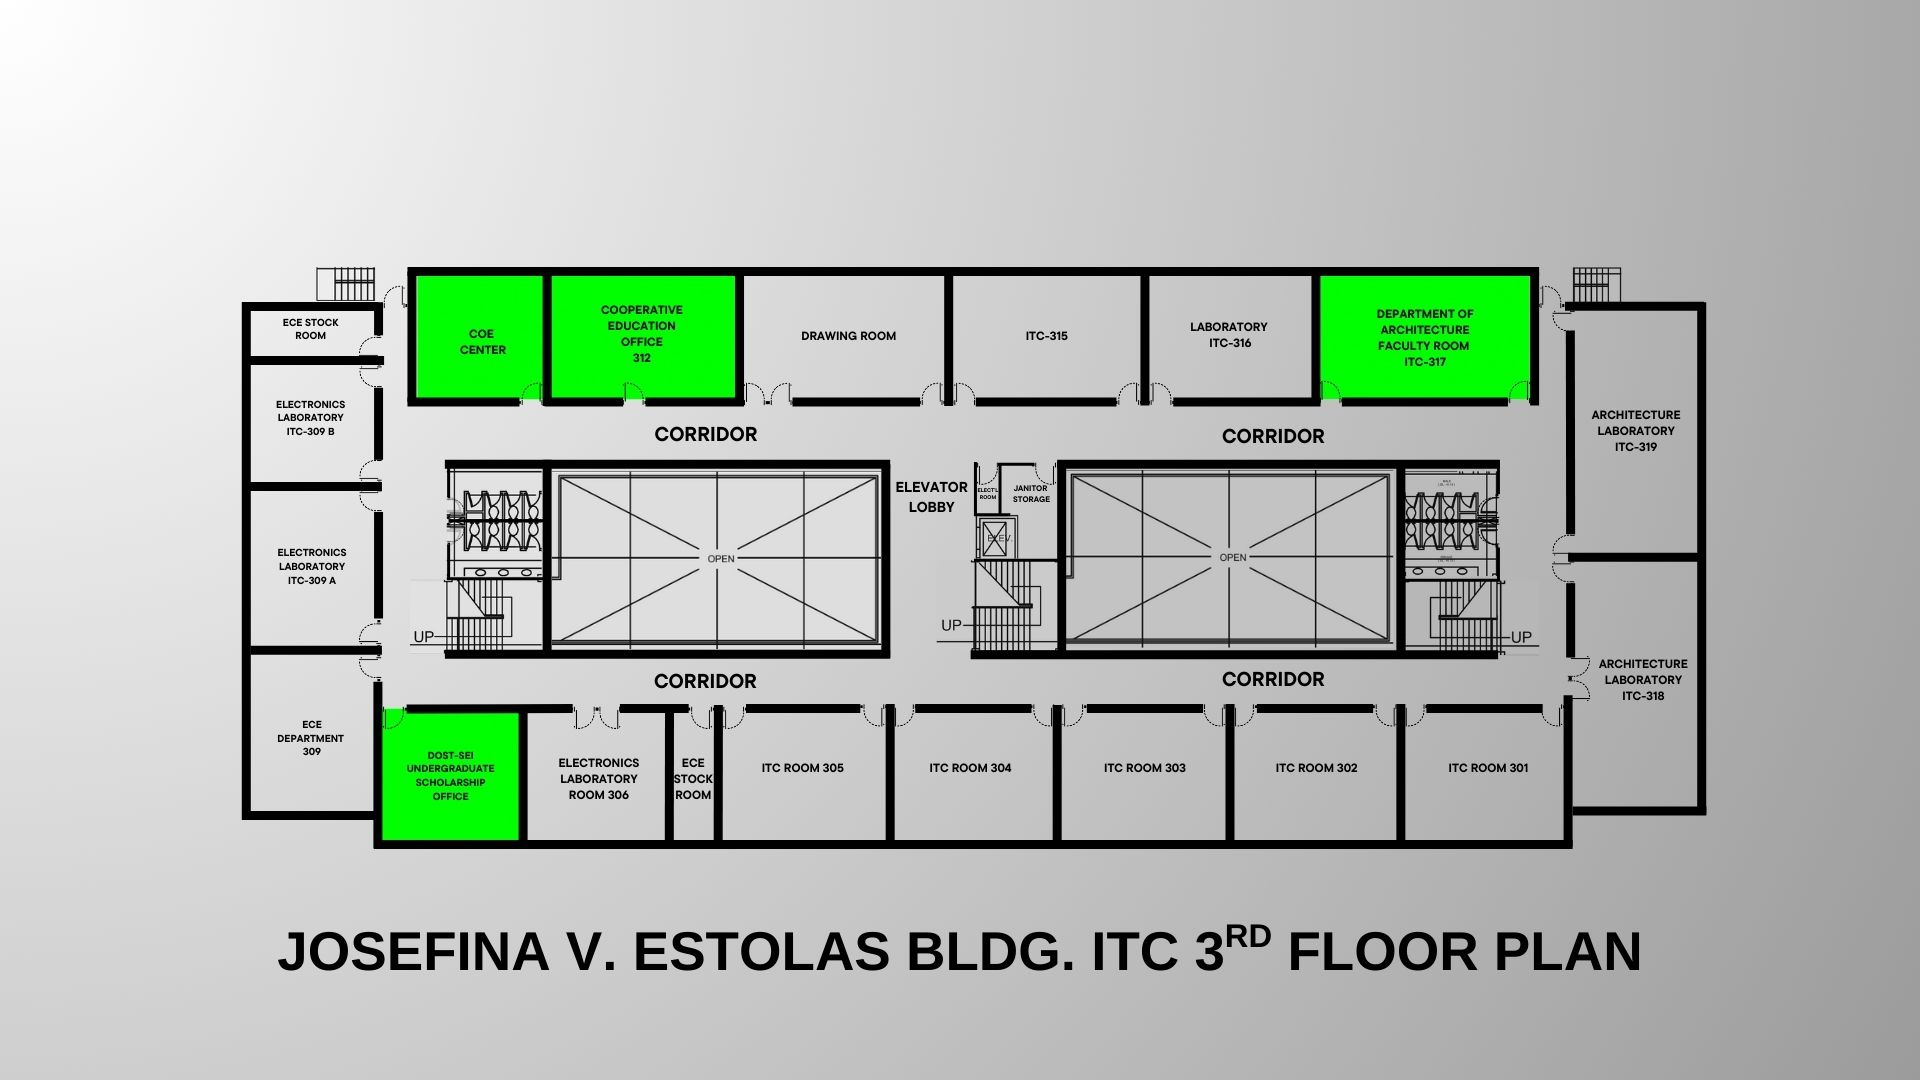
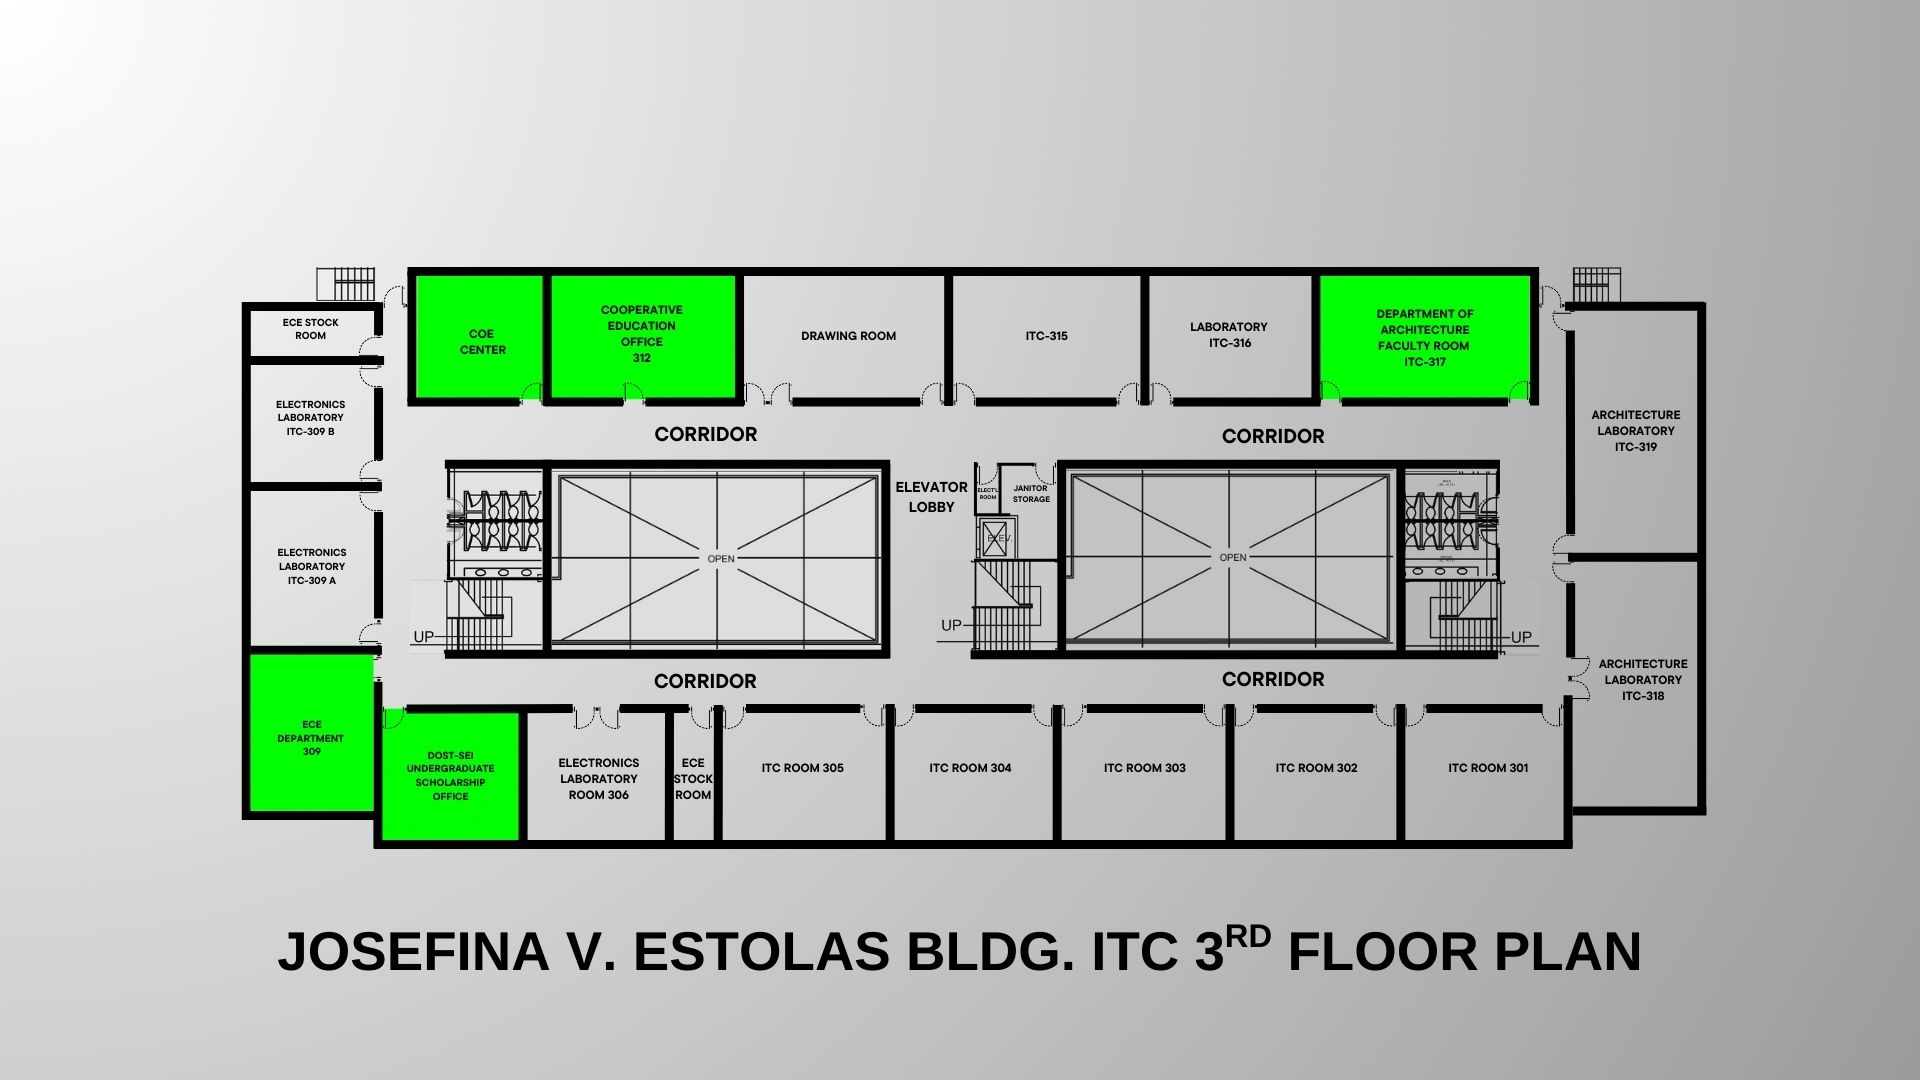
chore: added ece dept in highlights

Changed region(s): [[0.125, 0.5806, 0.2188, 0.7639]]

diff --git a/frontend/src/pages/MapPage.tsx b/frontend/src/pages/MapPage.tsx
@@ -10,6 +10,7 @@ import {
   COOP,
   CPE_DEPT,
   CULTURAL_AFFAIRS_OFFICE,
+  ECE_DEPT,
   ENGR_BLDG,
   HighlightsProps,
   ITB,
@@ -28,6 +29,7 @@ import {
 import BuildingComponent from "@/my_components/BuildingComponent";
 import { getMapImage } from "@/api";
 import RTU_MAP from "/RTU_MAP.jpg";
+import { Divide } from "lucide-react";
 
 const MapPage = () => {
   const [title, setTitle] = useState("Rizal Technological University Map");
@@ -177,12 +179,20 @@ const MapPage = () => {
 
                   {/* Highlights */}
                   {!isFloorSelected && (
-                    <Highlights
-                      className="top-[21%] left-[1%]"
-                      setIsFloorSelected={(e) => setIsFloorSelected(e)}
-                      getFolder={(folder) => setFolder(folder)}
-                      getFloor={(floor) => setFloor(floor)}
-                    />
+                    <>
+                      <Highlights
+                        className="top-[30%] left-[1%]"
+                        setIsFloorSelected={(e) => setIsFloorSelected(e)}
+                        getFolder={(folder) => setFolder(folder)}
+                        getFloor={(floor) => setFloor(floor)}
+                      />
+                      <Highlights1
+                        className="top-[60%] left-[80%]"
+                        setIsFloorSelected={(e) => setIsFloorSelected(e)}
+                        getFolder={(folder) => setFolder(folder)}
+                        getFloor={(floor) => setFloor(floor)}
+                      />
+                    </>
                   )}
                 </div>
               </TransformComponent>
@@ -238,13 +248,6 @@ const Highlights = ({
       <Button
         variant={"outline"}
         className="h-13"
-        onClick={() => handleClick(CPE_DEPT)}
-      >
-        Computer Engineering Department
-      </Button>
-      <Button
-        variant={"outline"}
-        className="h-13"
         onClick={() => handleClick(COOP)}
       >
         COOP
@@ -280,13 +283,6 @@ const Highlights = ({
       <Button
         variant={"outline"}
         className="h-13"
-        onClick={() => handleClick(CEIT_DEAN_OFFICE)}
-      >
-        CEIT Dean's Office
-      </Button>
-      <Button
-        variant={"outline"}
-        className="h-13"
         onClick={() => handleClick(COE)}
       >{`Cooperative Education Office (COE)`}</Button>
       <Button
@@ -295,6 +291,47 @@ const Highlights = ({
         onClick={() => handleClick(CULTURAL_AFFAIRS_OFFICE)}
       >
         Cultural Affairs Office
+      </Button>
+    </div>
+  );
+};
+
+const Highlights1 = ({
+  className,
+  getFloor,
+  getFolder,
+  setIsFloorSelected,
+}: HighlightsProps) => {
+  function handleClick(file: any) {
+    setIsFloorSelected(true);
+    getFolder(file.folder);
+    getFloor(file.floor);
+  }
+
+  return (
+    <div
+      className={`absolute disabled:opacity-0 ${className} flex-col flex space-y-2`}
+    >
+      <Button
+        variant={"outline"}
+        className="h-13"
+        onClick={() => handleClick(ECE_DEPT)}
+      >
+        Electronics Engineering Department
+      </Button>
+      <Button
+        variant={"outline"}
+        className="h-13"
+        onClick={() => handleClick(CEIT_DEAN_OFFICE)}
+      >
+        CEIT Dean's Office
+      </Button>
+      <Button
+        variant={"outline"}
+        className="h-13"
+        onClick={() => handleClick(CPE_DEPT)}
+      >
+        Computer Engineering Department
       </Button>
     </div>
   );

diff --git a/frontend/src/interface.ts b/frontend/src/interface.ts
@@ -65,6 +65,11 @@ export const CULTURAL_AFFAIRS_OFFICE = {
   floor: "FLOOR5.jpg",
 };
 
+export const ECE_DEPT = {
+  folder: JVE,
+  floor: "FLOOR3.jpg",
+};
+
 export interface ImageData {
   filename: string;
   duration: number;
